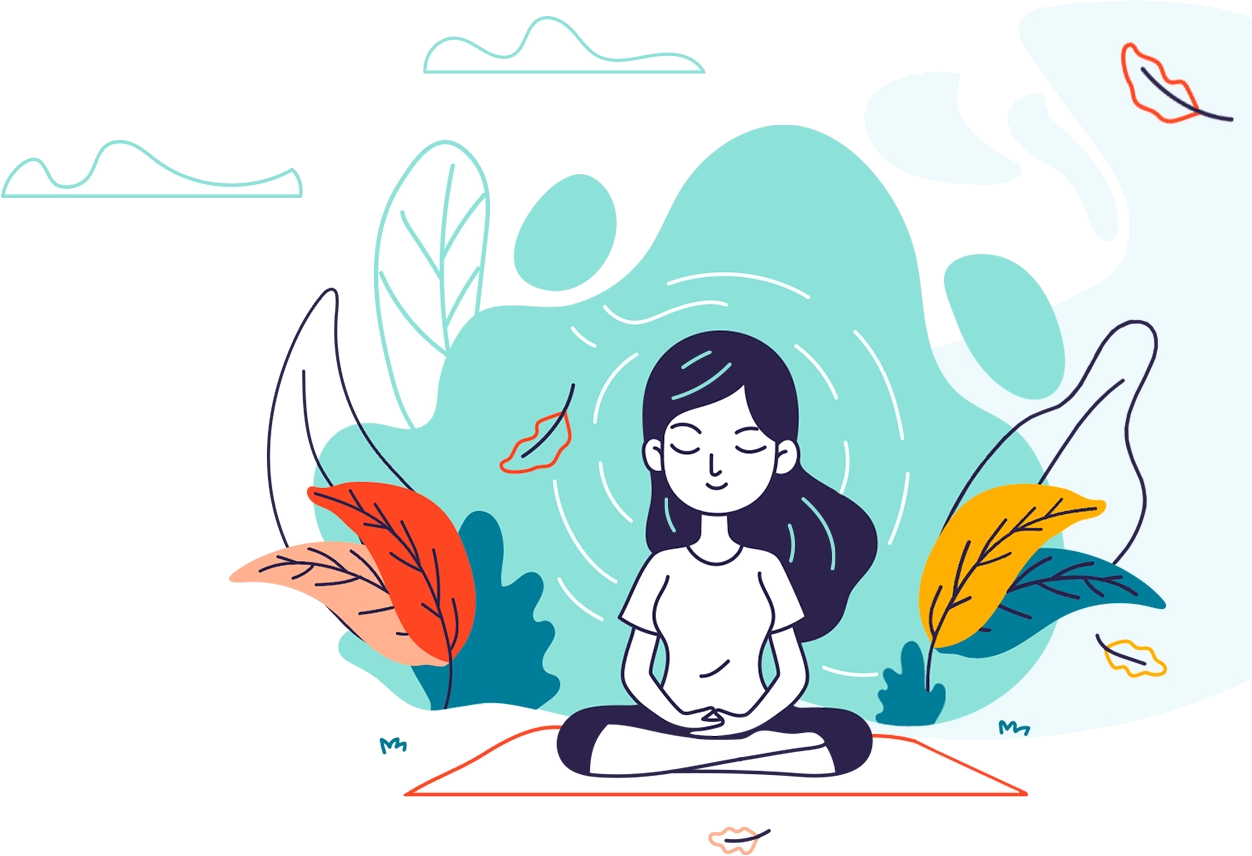
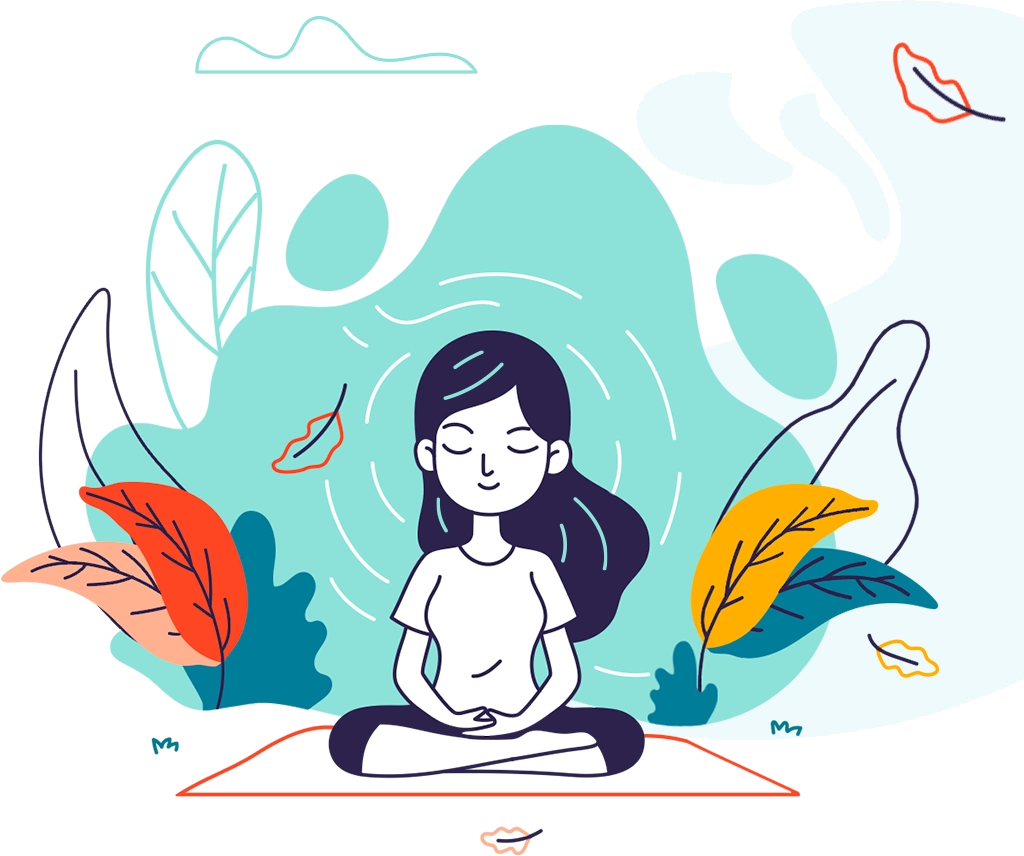
updated main image

diff --git a/styles/main.css b/styles/main.css
@@ -27,6 +27,11 @@ nav a{
     line-height: 15px;
 }
 
+nav a:hover {
+    text-decoration: underline;
+    text-decoration-color: red;
+}
+
 nav a:first-child {
     text-decoration: underline;
     text-decoration-color: red;
@@ -36,6 +41,19 @@ a+a {
     margin-left: 30px;
 }
 
+div>a {
+    text-decoration: none;
+    padding: 5px 20px;
+    color: white;
+    background-color: #FF4622;
+    border-radius: 6px;
+    font-size: 12px;
+
+}
+mark {
+    background-color: transparent;
+    color: #FF4622;
+}
 
 section {
     display:inline-block;
@@ -43,12 +61,12 @@ section {
 }
 
 section>img:first-child {
-    width:  70%;
+    width:  50%;
     float: right; 
 }
 
 section div{
-    width: 25%;
-    margin-left: 71px;
-    margin-top: 233px;
+    width: 30%;
+    margin-left: calc(50% - 400px);
+    margin-top: 137px;
 }

diff --git a/index.html b/index.html
@@ -22,7 +22,7 @@
     <section>
         <img src="./img/rightImage.png" alt="part of design">
         <div>
-            <h1>Welcome to Yoga Lifestyle studio!</h1>
+            <h1>Welcome to Yoga <mark>Lifestyle</mark> studio!</h1>
             <p>We are trying very hard to create all the conditions that your stay in the studio is comfortable and favorable for development, creativity and creation.</p>
             <a href="#" target="_self">Sign up for classes</a>
         </div>

diff --git a/README.md b/README.md
@@ -1,0 +1,4 @@
+## Yoga
+
+* In this project we are getting closer whats called web page
+
